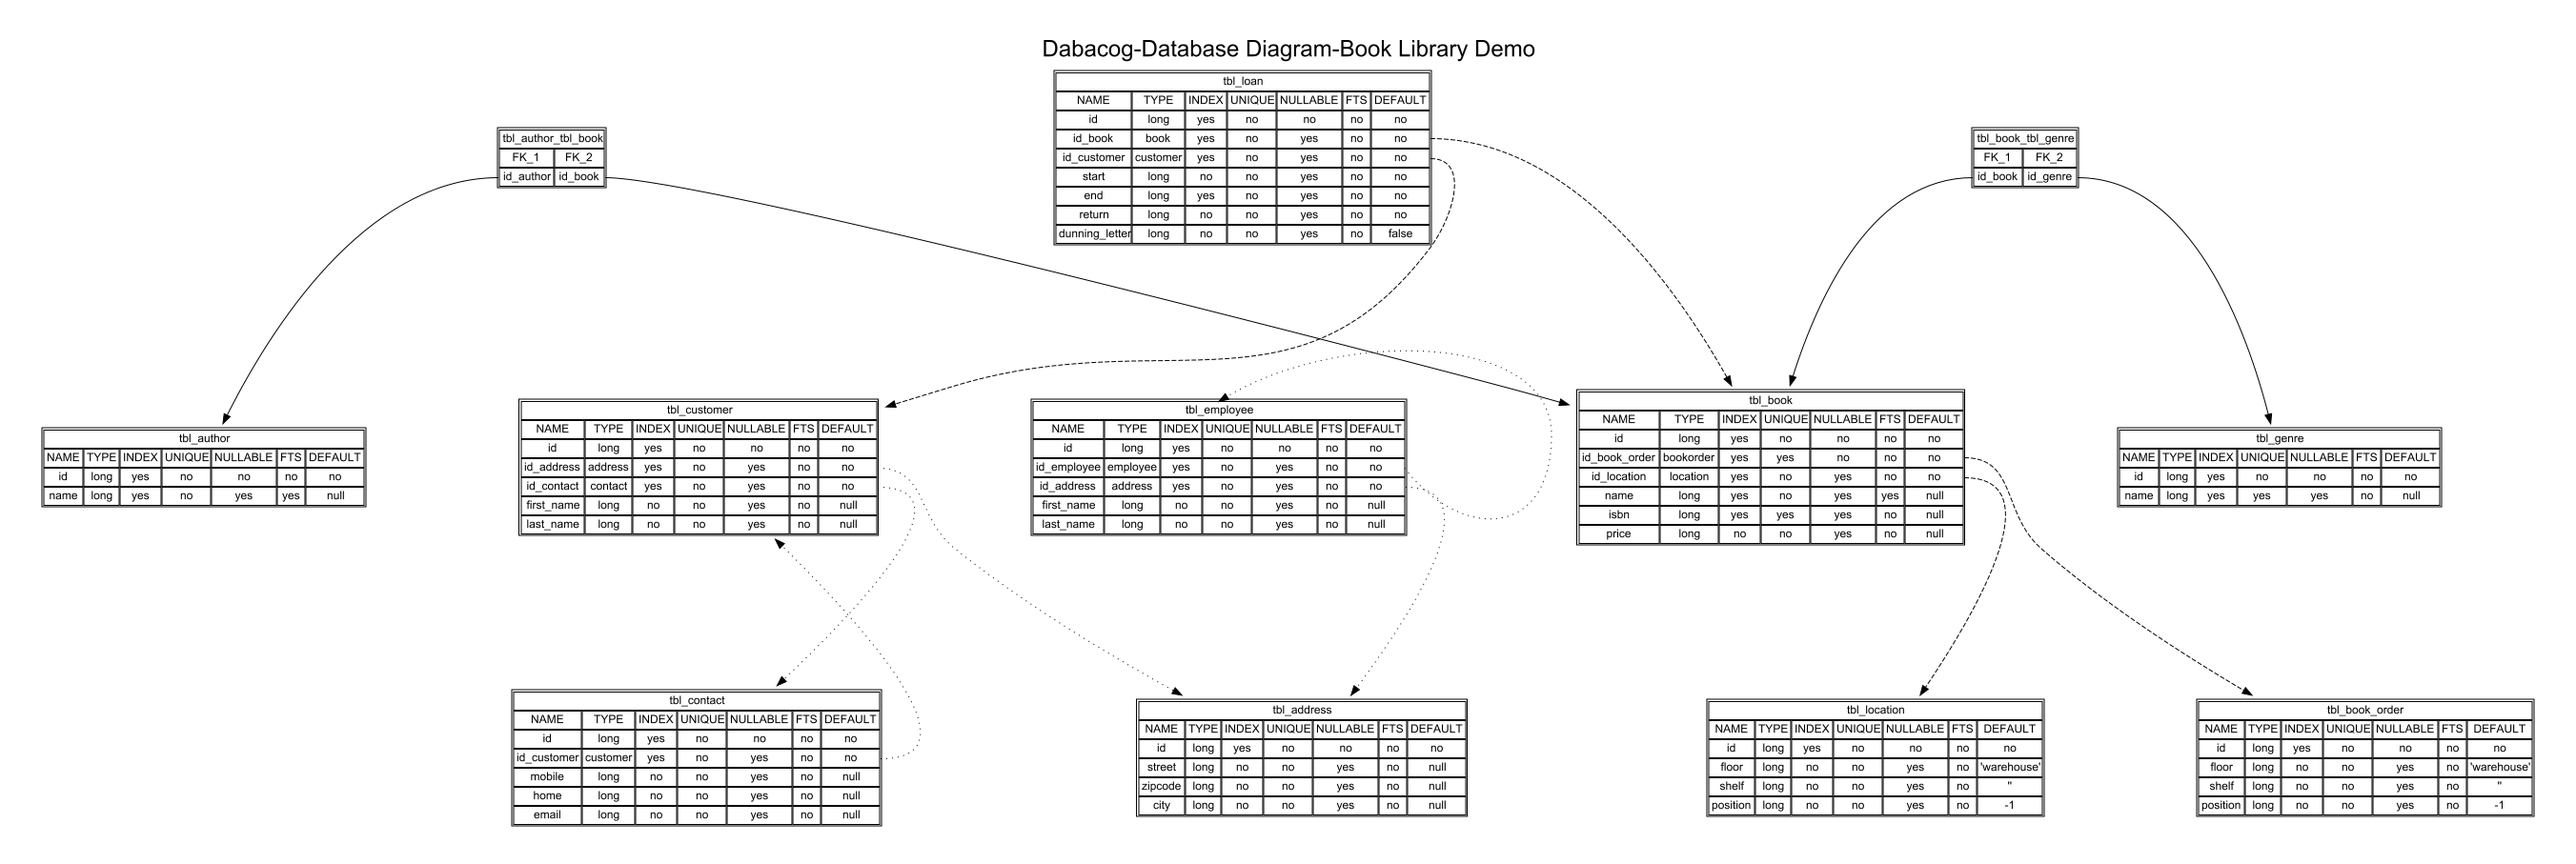
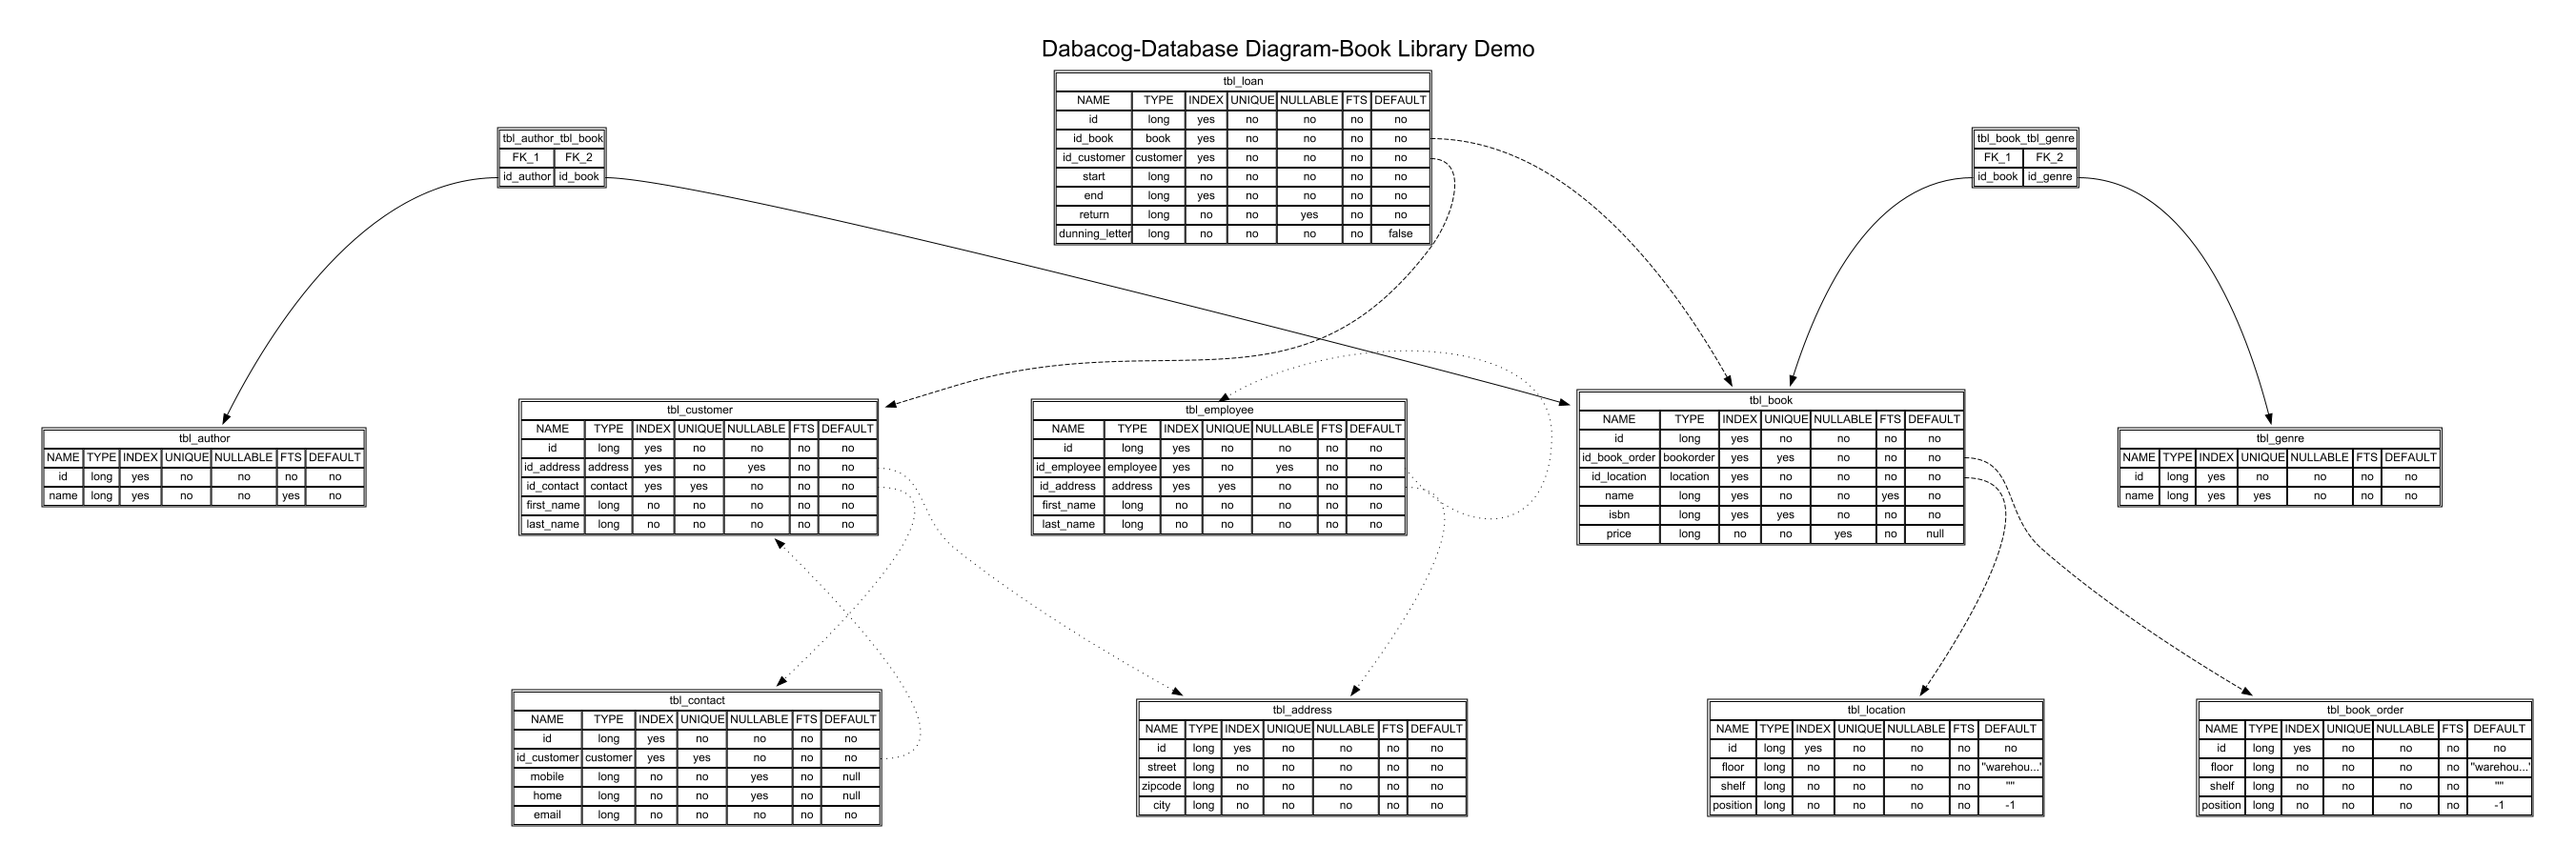
Dump tables
- Updates generation demo data
- Updates readme:wq

diff --git a/README.md b/README.md
@@ -28,8 +28,8 @@ and comes as a command line interface (CLI).
                                     option.
           -V, --version           Print version information and exit.
 
-Most software projects have a database, and a data access layer, where the data access layer
-communicates with the database layer to perform
+Most software projects have a data storage, and a data access layer where the access layer
+communicates with the storage layer (typically a database) to perform
 [CRUD](https://en.wikipedia.org/wiki/Create,_read,_update_and_delete) operations. These operations,
 as well as the data access layer designs, are usually simple, repetitive and can be easily derived
 from a model describing the required data structures and their relations.
@@ -62,6 +62,10 @@ schema requirements in an application life-cycle.
             diagramDatabaseTitle="Dabacog - Database Diagram - Book Library Demo"
             diagramDatabasePrimaryKeyFieldPorts="false"
             diagramDatabaseForeignKeyFieldPorts="true"/>
+        <sqlConfig
+            sqlOutputPath="./generated"
+            sqlGlobalSequence="true"
+            sqlDumpDatabase="true"/>
       </config>
 
       <entities>
@@ -108,15 +112,15 @@ schema requirements in an application life-cycle.
 
         <class name="Location">
           <field type="Book" relation="n..1"/>
-          <field type="string" name="Floor" default="warehouse"/>
-          <field type="string" name="Shelf" default=""/>
+          <field type="string" name="Floor" default="'warehouse'"/>
+          <field type="string" name="Shelf" default="''"/>
           <field type="int" name="Position" default="-1"/>
         </class>
 
         <class name="BookOrder">
           <field type="Book" relation="n..1" nullable="true"/>
-          <field type="string" name="Floor" default="warehouse"/>
-          <field type="string" name="Shelf" default=""/>
+          <field type="string" name="Floor" default="'warehouse'"/>
+          <field type="string" name="Shelf" default="''"/>
           <field type="int" name="Position" default="-1"/>
         </class>
 
@@ -137,6 +141,7 @@ schema requirements in an application life-cycle.
       </entities>
 
     </dxd>
+
     ```
 
 2. Execute the corresponding Dabacog CLI generation
